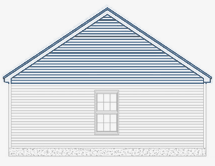
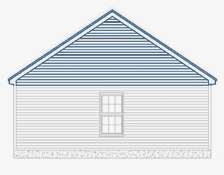
house images updated

Changed region(s): [[0.0, 0.0301, 1.0, 0.9639], [0.4186, 0.7229, 0.5581, 0.8133]]

diff --git a/src/app/questionnaire/step-one/step-one.component.html b/src/app/questionnaire/step-one/step-one.component.html
@@ -24,12 +24,12 @@
                                 </h1>
                             </div>
 
-                            <!--<form (ngSubmit)="submit(stepOne)" [formGroup]="stepOne" class="text-center">
+                            <form (ngSubmit)="submit(stepOne)" [formGroup]="stepOne" class="text-center">
                                 <input ngx-google-places-autocomplete [options]='options' #placesRef="ngx-places"
                                     (onAddressChange)="handleAddressChange($event)" formControlName="address"
                                     type="text" class="form-input mr-2">
                                 <input class="orange-btn" type="submit">
-                            </form>-->
+                            </form>
 
                             <p class="insurance mt-4">Insurance-approved roof estimates... <em>FAST!</em></p>
                         </div>

diff --git a/src/app/questionnaire/back-picture/back-picture.component.html b/src/app/questionnaire/back-picture/back-picture.component.html
@@ -10,7 +10,7 @@
                             [ngClass]="{'nv-file-over': hasBaseDropZoneOver}">
                             <div class="form_line">
                                 <div class="form_controls">
-                                    <img class="img-fluid mt-3 mb-4" src="assets/back-picture.png" alt="picture">
+                                    <img class="img-fluid mt-3 mb-4" src="assets/right-picture.png" alt="picture">
 
                                     <div class="upload_button_holder">
                                         <label id="upload-label" class="upload_button orange-btn" for="fileupload">Add

diff --git a/src/app/questionnaire/rear-picture/rear-picture.component.html b/src/app/questionnaire/rear-picture/rear-picture.component.html
@@ -10,7 +10,7 @@
                             [ngClass]="{'nv-file-over': hasBaseDropZoneOver}">
                             <div class="form_line">
                                 <div class="form_controls">
-                                    <img class="img-fluid mt-3 mb-4" src="assets/left-picture.png" alt="picture">
+                                    <img class="img-fluid mt-3 mb-4" src="assets/rear-picture.png" alt="picture">
 
                                     <div class="upload_button_holder">
                                         <label id="upload-label" class="upload_button orange-btn" for="fileupload">Add
